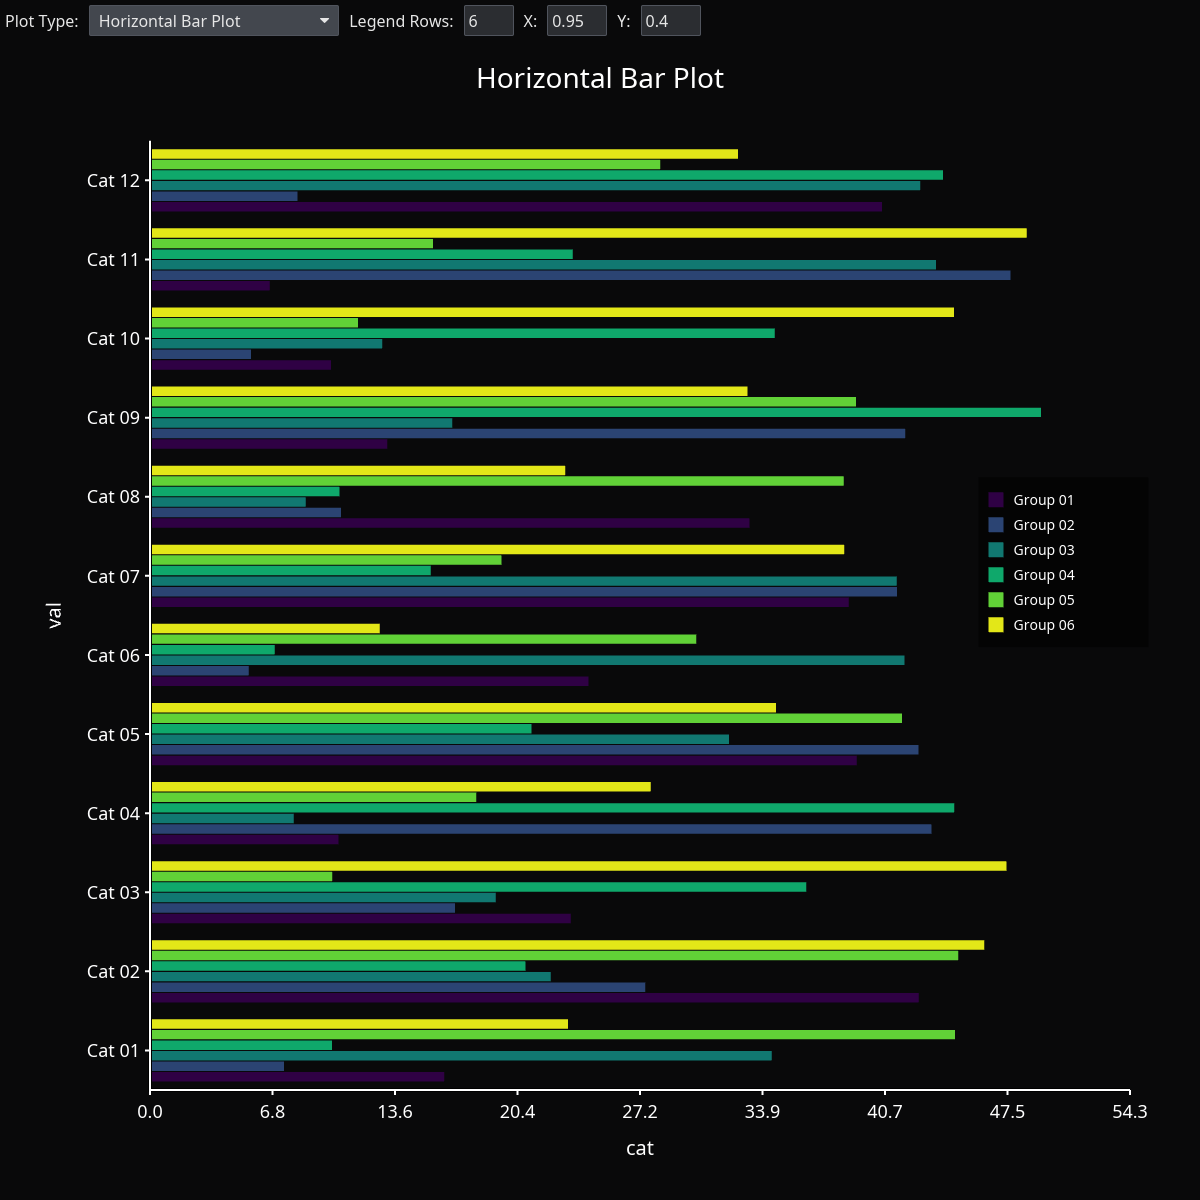
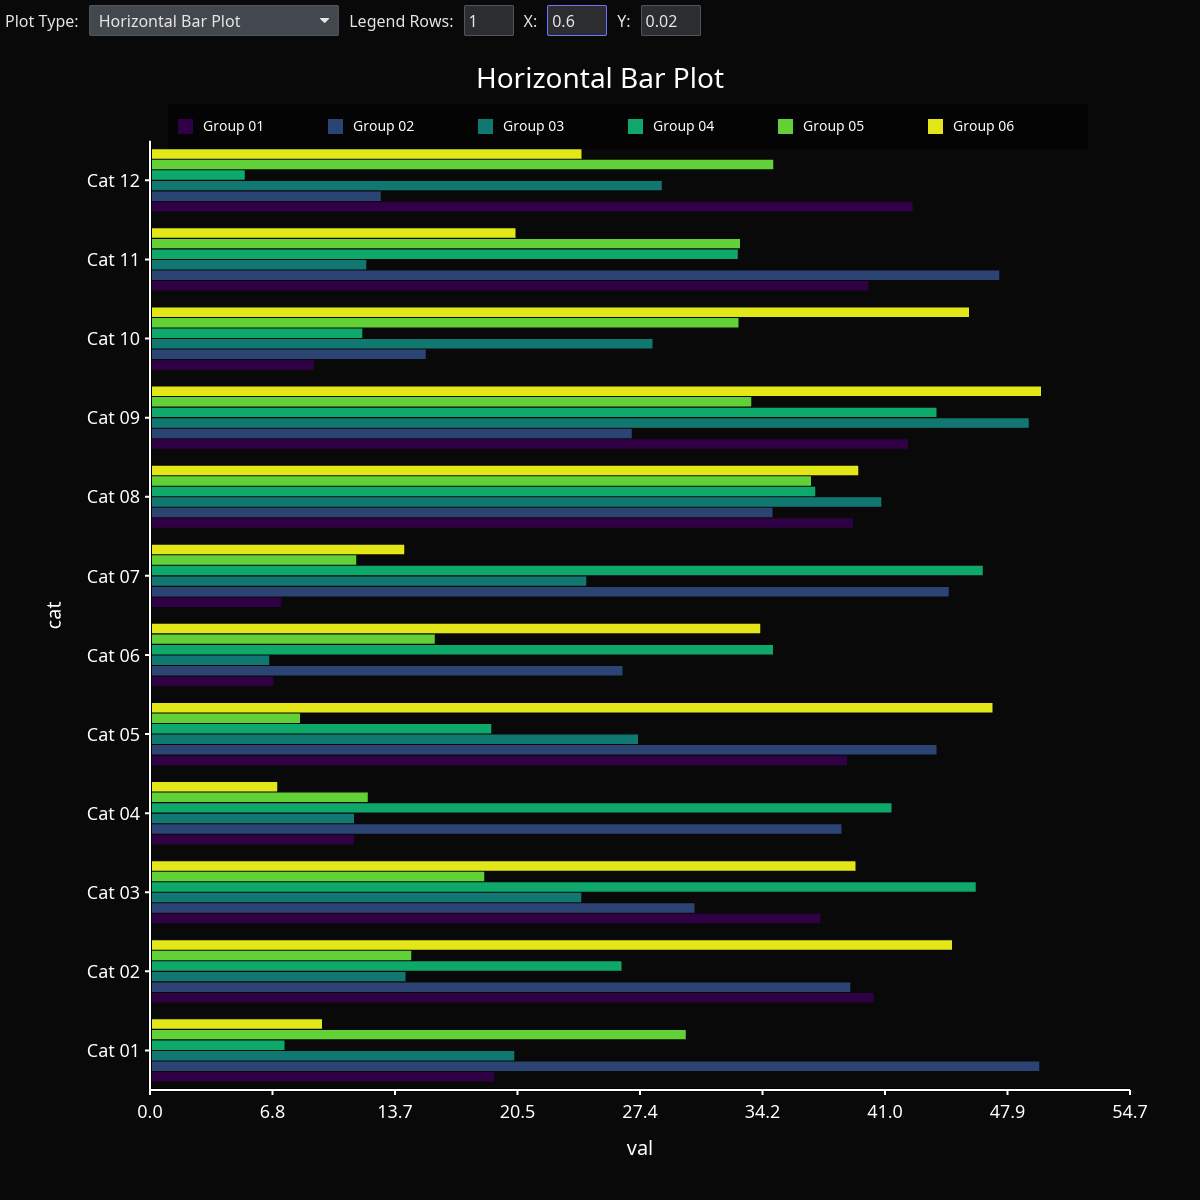
bugfix: Transpose axis labels on horizontal bar plots.

diff --git a/src/stacked_bar.rs b/src/stacked_bar.rs
@@ -251,11 +251,17 @@ impl PlotKernel for StackedBarPlotKernel {
 	}
 
 	fn x_label(&self) -> String {
-		self.prepared_data.x_label.clone()
+		match self.orientation {
+			Orientation::Vertical => self.prepared_data.x_label.clone(),
+			Orientation::Horizontal => self.prepared_data.y_label.clone(),
+		}
 	}
 
 	fn y_label(&self) -> String {
-		self.prepared_data.y_label.clone()
+		match self.orientation {
+			Orientation::Vertical => self.prepared_data.y_label.clone(),
+			Orientation::Horizontal => self.prepared_data.x_label.clone(),
+		}
 	}
 }
 

diff --git a/src/bar.rs b/src/bar.rs
@@ -250,11 +250,17 @@ impl PlotKernel for BarPlotKernel {
 	}
 
 	fn x_label(&self) -> String {
-		self.prepared_data.x_label.clone()
+		match self.orientation {
+			Orientation::Vertical => self.prepared_data.x_label.clone(),
+			Orientation::Horizontal => self.prepared_data.y_label.clone(),
+		}
 	}
 
 	fn y_label(&self) -> String {
-		self.prepared_data.y_label.clone()
+		match self.orientation {
+			Orientation::Vertical => self.prepared_data.y_label.clone(),
+			Orientation::Horizontal => self.prepared_data.x_label.clone(),
+		}
 	}
 }
 
